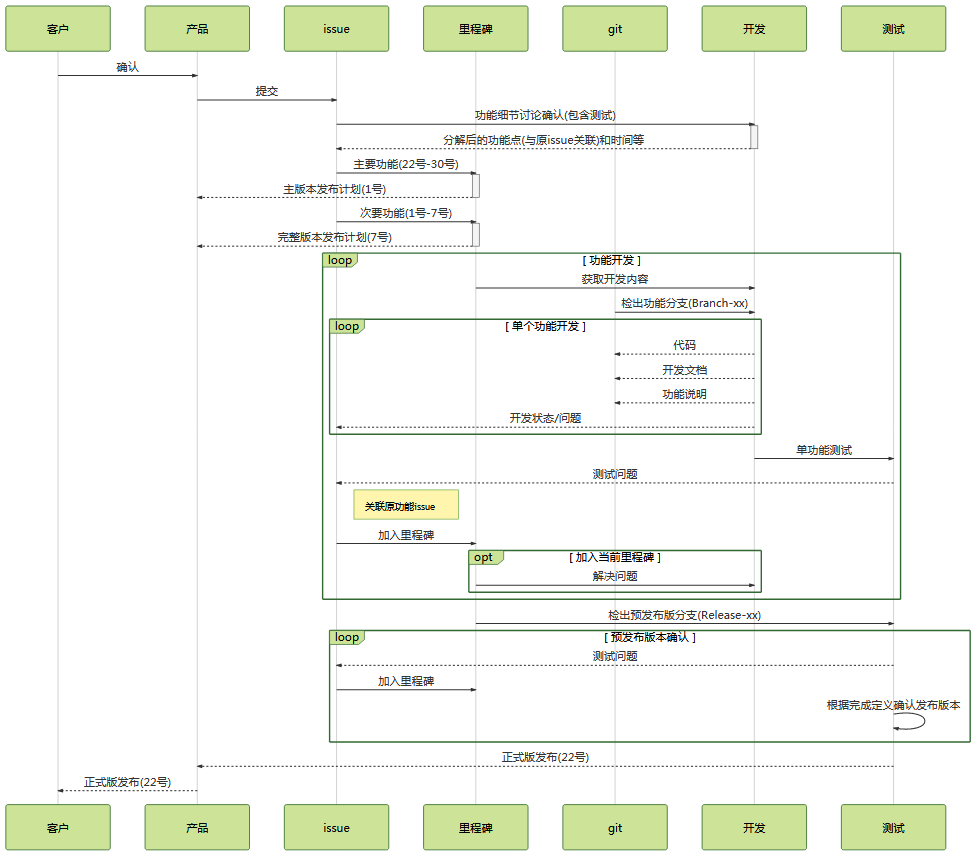
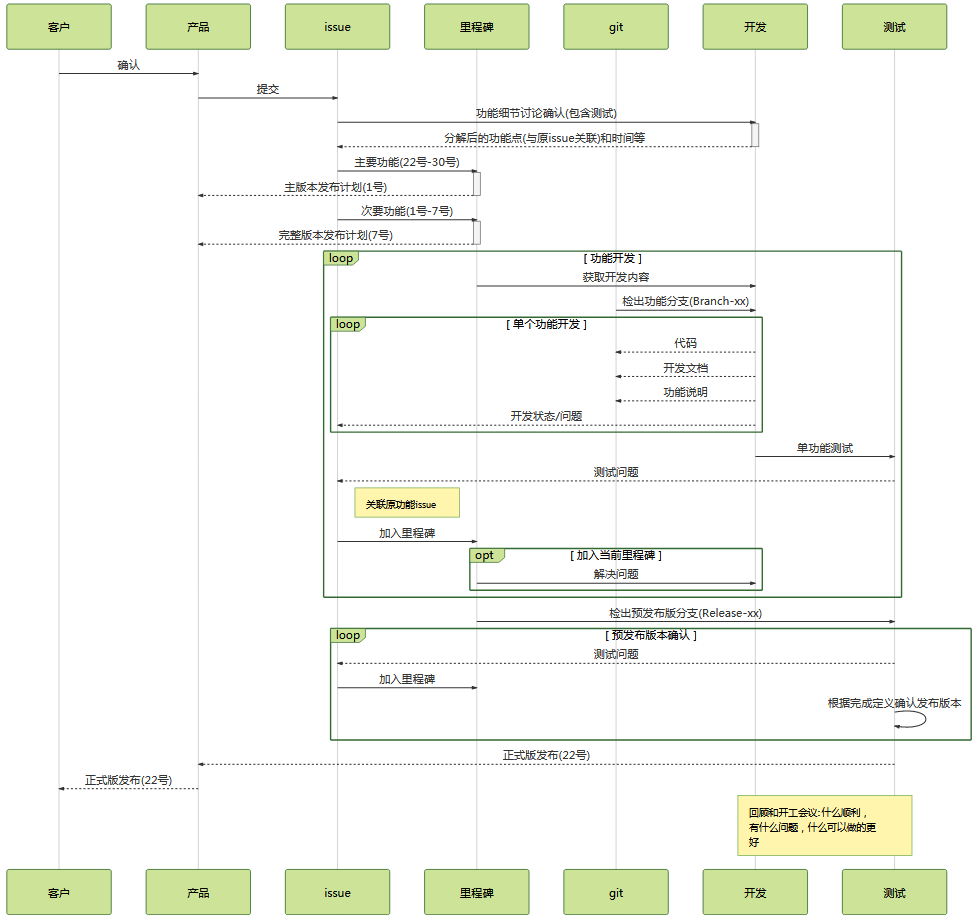
流程图中增加回顾会议要求。增加整体工程要求

diff --git a/manage/index.html b/manage/index.html
@@ -8,47 +8,48 @@
 </head>
 <body>
   <div class="mermaid">
-sequenceDiagram
-    participant 客户
-    participant 产品
-    participant issue
-    participant 里程碑
-    participant git
-    participant 开发
-    participant 测试
-    客户->>产品: 确认
-    产品->>issue: 提交
-    issue->>+开发: 功能细节讨论确认(包含测试)
-    开发-->>-issue: 分解后的功能点(与原issue关联)和时间等
-    issue->>+里程碑: 主要功能(22号-30号)
-    里程碑-->>-产品: 主版本发布计划(1号)
-    issue->>+里程碑: 次要功能(1号-7号)
-    里程碑-->>-产品: 完整版本发布计划(7号)
-    loop 功能开发
-        里程碑->>开发: 获取开发内容
-        git->>开发: 检出功能分支(Branch-xx)
-        loop 单个功能开发
-            开发-->>git: 代码
-            开发-->>git: 开发文档
-            开发-->>git: 功能说明
-            开发-->>issue: 开发状态/问题
+    sequenceDiagram
+        participant 客户
+        participant 产品
+        participant issue
+        participant 里程碑
+        participant git
+        participant 开发
+        participant 测试
+        客户->>产品: 确认
+        产品->>issue: 提交
+        issue->>+开发: 功能细节讨论确认(包含测试)
+        开发-->>-issue: 分解后的功能点(与原issue关联)和时间等
+        issue->>+里程碑: 主要功能(22号-30号)
+        里程碑-->>-产品: 主版本发布计划(1号)
+        issue->>+里程碑: 次要功能(1号-7号)
+        里程碑-->>-产品: 完整版本发布计划(7号)
+        loop 功能开发
+            里程碑->>开发: 获取开发内容
+            git->>开发: 检出功能分支(Branch-xx)
+            loop 单个功能开发
+                开发-->>git: 代码
+                开发-->>git: 开发文档
+                开发-->>git: 功能说明
+                开发-->>issue: 开发状态/问题
+            end
+            开发->>测试: 单功能测试
+            测试-->>issue: 测试问题
+            note right of issue: 关联原功能issue
+            issue->>里程碑: 加入里程碑
+            opt 加入当前里程碑
+                里程碑->>开发: 解决问题
+            end
         end
-        开发->>测试: 单功能测试
-        测试-->>issue: 测试问题
-        note right of issue: 关联原功能issue
-        issue->>里程碑: 加入里程碑
-        opt 加入当前里程碑
-            里程碑->>开发: 解决问题
+        里程碑->>测试: 检出预发布版分支(Release-xx)
+        loop 预发布版本确认
+            测试-->>issue: 测试问题
+            issue->>里程碑: 加入里程碑
+            测试->>测试: 根据完成定义确认发布版本
         end
-    end
-    里程碑->>测试: 检出预发布版分支(Release-xx)
-    loop 预发布版本确认
-        测试-->>issue: 测试问题
-        issue->>里程碑: 加入里程碑
-        测试->>测试: 根据完成定义确认发布版本
-    end
-    测试-->>产品: 正式版发布(22号)
-    产品-->>客户: 正式版发布(22号)
+        测试-->>产品: 正式版发布(22号)
+        产品-->>客户: 正式版发布(22号)
+        note over 开发,测试: 回顾和开工会议:什么顺利，有什么问题，什么可以做的更好
   </div>
 
   <hr/>

diff --git a/manage/engineering.md b/manage/engineering.md
@@ -1,0 +1,35 @@
+## 工作流程
+
+![开发工作流程](devworkflow.png)
+
+* 时间分配: 月度版本设计讨论1~2周，开发2~3周
+* 工作内容: 只开发列入月度版本的功能，没有列入月度版本的功能不能进行开发
+* 工作方法: 凡事开始于issue，各类讨论和结论也要更新到issue上，所有事情以issue内容为准
+
+## 代码规范
+
+按照代码规范来编写代码，至少符合其中大部分要求。
+
+[代码规范](http://dev/csharp/CSharpCodingGuidelines.htm)
+
+[代码规范速查表](http://dev/csharp/CSharpCodingGuidelinesCheatsheet.pdf)
+
+> 安装resharper，并导入配置文件。resharper提示的问题都要修改，提示的warning要解决。
+
+## 工作完成定义
+1. 应该有注释的地方都写了注释
+1. 可工作的和干净的代码
+1. 通过单元和系统测试
+1. 文档已经放到doc目录中
+1. 程序中有变更日志入口，内容写入对应记录的地方(建议写到wiki中)
+1. 评审过和所有担忧的问题都已经解决
+1. 代码被“负责人”合并到主线
+
+如果代码中增加了依赖或其他影响前一个版本使用的变更，要写相关信息到合并请求中。
+
+## 项目状况确认
+测试每周一发布质量报告，包含
+ 
+1. 本月里程碑进展:issue完成数量/总数
+1. 各个项目里程碑版本中存在的问题
+1. 代码静态审查结果

diff --git a/manage/devworkflow.md b/manage/devworkflow.md
@@ -42,4 +42,5 @@ sequenceDiagram
     end
     测试-->>产品: 正式版发布(22号)
     产品-->>客户: 正式版发布(22号)
+    note over 开发,测试: 回顾和开工会议:什么顺利，有什么问题，什么可以做的更好
 ```
